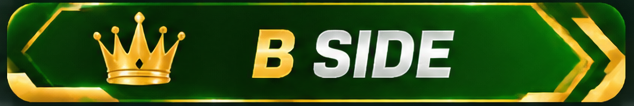
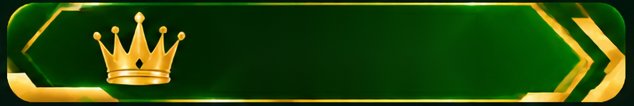
Add ready-made voting templates and update side labels

diff --git a/lib/main.dart b/lib/main.dart
@@ -776,6 +776,181 @@ class _EditorState extends State<Editor> with WidgetsBindingObserver {
     }
   }
 
+  void readyMadeTemplatesTool() {
+    const templates = <({
+      String name,
+      String subtitle,
+      Color base,
+      Color accent,
+      String frame,
+      String aLabel,
+      String bLabel,
+      String vs,
+    })>[
+      (
+        name: 'Royal Blue & Pink',
+        subtitle: 'آپ کے نمونے سے متاثر',
+        base: Color(0xFF102C67),
+        accent: Color(0xFFFF4F9A),
+        frame: 'assets/stylish_frames/01_royal_gold_frame.png',
+        aLabel: 'assets/label_bars/a_side/A_Side_Style_1.png',
+        bLabel: 'assets/label_bars/b_side/B_Side_Style_2.png',
+        vs: 'Royal Gold',
+      ),
+      (
+        name: 'Classic Crown Battle',
+        subtitle: 'گولڈن کراؤن اسٹائل',
+        base: Color(0xFF111827),
+        accent: Color(0xFFFFD700),
+        frame: 'assets/stylish_frames/03_luxury_gold_frame.png',
+        aLabel: 'assets/label_bars/a_side/A_Side_Style_2.png',
+        bLabel: 'assets/label_bars/b_side/B_Side_Style_1.png',
+        vs: 'Luxury',
+      ),
+      (
+        name: 'Neon Battle',
+        subtitle: 'نیون بلیو اور پنک',
+        base: Color(0xFF090B2B),
+        accent: Color(0xFFE040FB),
+        frame: 'assets/stylish_frames/08_blue_light_frame.png',
+        aLabel: 'assets/label_bars/a_side/A_Side_Style_4.png',
+        bLabel: 'assets/label_bars/b_side/B_Side_Style_4.png',
+        vs: 'Electric',
+      ),
+      (
+        name: 'Red & Gold Arena',
+        subtitle: 'ریڈ گلو اور گولڈ',
+        base: Color(0xFF7F101B),
+        accent: Color(0xFFFFD700),
+        frame: 'assets/stylish_frames/05_red_glow_frame.png',
+        aLabel: 'assets/label_bars/a_side/A_Side_Style_3.png',
+        bLabel: 'assets/label_bars/b_side/B_Side_Style_5.png',
+        vs: 'Fire',
+      ),
+      (
+        name: 'Blue & Gold Classic',
+        subtitle: 'شاہانہ بلیو اور گولڈ',
+        base: Color(0xFF102C67),
+        accent: Color(0xFFFFD700),
+        frame: 'assets/stylish_frames/02_elegant_gold_frame.png',
+        aLabel: 'assets/label_bars/a_side/A_Side_Style_5.png',
+        bLabel: 'assets/label_bars/b_side/B_Side_Style_3.png',
+        vs: 'Golden Glow',
+      ),
+    ];
+
+    showModalBottomSheet<void>(
+      context: context,
+      isScrollControlled: true,
+      backgroundColor: const Color(0xFF111827),
+      builder: (sheetContext) => SafeArea(
+        child: SizedBox(
+          height: MediaQuery.of(sheetContext).size.height * 0.78,
+          child: Column(
+            children: [
+              const Padding(
+                padding: EdgeInsets.fromLTRB(16, 18, 16, 8),
+                child: Text(
+                  'Ready-made Templates',
+                  style: TextStyle(color: Colors.white, fontSize: 21, fontWeight: FontWeight.w900),
+                ),
+              ),
+              const Padding(
+                padding: EdgeInsets.fromLTRB(16, 0, 16, 12),
+                child: Text(
+                  'ٹیمپلیٹ منتخب کریں، پھر A/B تصاویر اور نام اپنی مرضی سے تبدیل کریں۔',
+                  textAlign: TextAlign.center,
+                  style: TextStyle(color: Colors.white70, fontSize: 13),
+                ),
+              ),
+              Expanded(
+                child: GridView.builder(
+                  padding: const EdgeInsets.all(12),
+                  gridDelegate: const SliverGridDelegateWithFixedCrossAxisCount(
+                    crossAxisCount: 2,
+                    crossAxisSpacing: 12,
+                    mainAxisSpacing: 12,
+                    childAspectRatio: 0.92,
+                  ),
+                  itemCount: templates.length,
+                  itemBuilder: (context, index) {
+                    final template = templates[index];
+                    return InkWell(
+                      borderRadius: BorderRadius.circular(14),
+                      onTap: () {
+                        setState(() {
+                          canvasRatio = 4 / 3;
+                          background = template.base;
+                          frameColor = template.accent;
+                          frameWidth = 4;
+                          selectedStylishFrame = template.frame;
+                          selectedASideLabel = template.aLabel;
+                          selectedBSideLabel = template.bLabel;
+                          vsStyle = template.vs;
+                          showVs = true;
+                          isVsSelected = false;
+                          vsOffset = Offset.zero;
+                          vsScale = 1.0;
+                          vsStartScale = 1.0;
+                        });
+                        Navigator.pop(sheetContext);
+                        msg('${template.name} ٹیمپلیٹ منتخب ہوگیا۔');
+                      },
+                      child: Container(
+                        decoration: BoxDecoration(
+                          borderRadius: BorderRadius.circular(14),
+                          gradient: LinearGradient(
+                            begin: Alignment.topLeft,
+                            end: Alignment.bottomRight,
+                            colors: [template.base, template.accent.withOpacity(0.72)],
+                          ),
+                          border: Border.all(color: template.accent, width: 2),
+                          boxShadow: [
+                            BoxShadow(color: template.accent.withOpacity(0.2), blurRadius: 8),
+                          ],
+                        ),
+                        child: Padding(
+                          padding: const EdgeInsets.all(10),
+                          child: Column(
+                            mainAxisAlignment: MainAxisAlignment.center,
+                            children: [
+                              Icon(Icons.emoji_events, size: 32, color: template.accent),
+                              const SizedBox(height: 8),
+                              Text(
+                                template.name,
+                                textAlign: TextAlign.center,
+                                style: const TextStyle(color: Colors.white, fontSize: 14, fontWeight: FontWeight.w900),
+                              ),
+                              const SizedBox(height: 5),
+                              Text(
+                                template.subtitle,
+                                textAlign: TextAlign.center,
+                                style: const TextStyle(color: Colors.white70, fontSize: 11),
+                              ),
+                              const SizedBox(height: 8),
+                              Container(
+                                padding: const EdgeInsets.symmetric(horizontal: 12, vertical: 5),
+                                decoration: BoxDecoration(
+                                  color: Colors.black.withOpacity(0.28),
+                                  borderRadius: BorderRadius.circular(20),
+                                ),
+                                child: const Text('4:3  •  منتخب کریں', style: TextStyle(color: Colors.white, fontSize: 10, fontWeight: FontWeight.bold)),
+                              ),
+                            ],
+                          ),
+                        ),
+                      ),
+                    );
+                  },
+                ),
+              ),
+            ],
+          ),
+        ),
+      ),
+    );
+  }
+
   void backgrounds() {
     const colors = [Color(0xFF064B27), Color(0xFF102C67), Color(0xFF7F101B), Color(0xFF241044), Color(0xFF111827), Color(0xFF744210)];
     showModalBottomSheet<void>(context: context, builder: (c) => Padding(
@@ -1631,34 +1806,33 @@ class _EditorState extends State<Editor> with WidgetsBindingObserver {
                     child: Align(
                       alignment: Alignment.center,
                       child: FractionallySizedBox(
-                        widthFactor: 0.48,
-                        heightFactor: 0.78,
-                        child: Container(
-                          alignment: Alignment.center,
-                          color: sideA
-                              ? const Color(0xFF5C080D)
-                              : const Color(0xFF063D1C),
-                          padding: const EdgeInsets.symmetric(horizontal: 2),
-                          child: FittedBox(
-                            fit: BoxFit.scaleDown,
-                            child: Text(
-                              labelText,
-                              maxLines: 1,
-                              style: TextStyle(
-                                color: label.contains('Style_4')
-                                    ? const Color(0xFFFFD45C)
-                                    : Colors.white,
-                                fontSize: 22,
-                                fontWeight: FontWeight.w900,
-                                fontStyle: FontStyle.italic,
-                                shadows: const [
-                                  Shadow(
-                                    color: Colors.black,
-                                    blurRadius: 3,
-                                    offset: Offset(1, 2),
-                                  ),
-                                ],
-                              ),
+                        widthFactor: 0.68,
+                        heightFactor: 0.86,
+                        child: FittedBox(
+                          fit: BoxFit.scaleDown,
+                          child: Text(
+                            labelText,
+                            maxLines: 1,
+                            textDirection: RegExp(r'[\u0600-\u06FF]').hasMatch(labelText)
+                                ? TextDirection.rtl
+                                : TextDirection.ltr,
+                            style: TextStyle(
+                              fontFamily: RegExp(r'[\u0600-\u06FF]').hasMatch(labelText)
+                                  ? 'NotoNastaliqUrdu'
+                                  : 'OswaldLocal',
+                              color: label.contains('Style_4')
+                                  ? const Color(0xFFFFD45C)
+                                  : Colors.white,
+                              fontSize: 22,
+                              fontWeight: FontWeight.w900,
+                              fontStyle: FontStyle.italic,
+                              shadows: const [
+                                Shadow(
+                                  color: Colors.black,
+                                  blurRadius: 3,
+                                  offset: Offset(1, 2),
+                                ),
+                              ],
                             ),
                           ),
                         ),
@@ -2367,6 +2541,7 @@ class _EditorState extends State<Editor> with WidgetsBindingObserver {
               child: Row(children: [
                 tool('A', 'Add Photo A', () => pick(true)),
                 tool('B', 'Add Photo B', () => pick(false)),
+                tool('🎨', 'Ready-made Templates', readyMadeTemplatesTool),
                 letterStyleTool('assets/a_letter_styles/A_Style_01.png', 'A Style', () => openLetterStyleGallery(true)),
                 letterStyleTool('assets/b_letter_styles/B_Style_01.png', 'B Style', () => openLetterStyleGallery(false)),
                 tool('T', 'Text', openTextTools),
